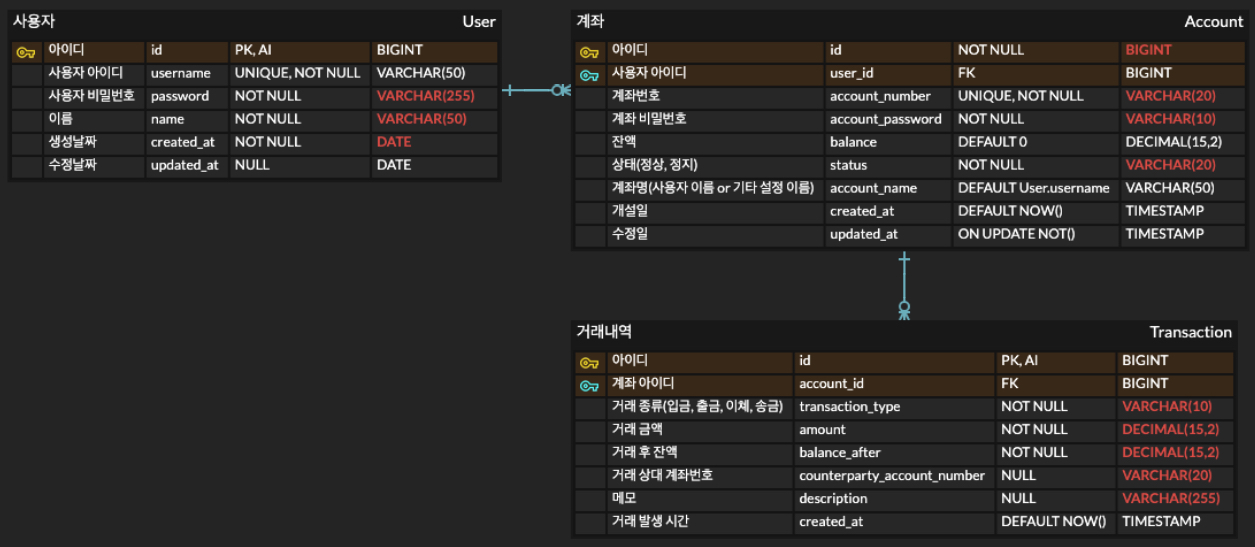
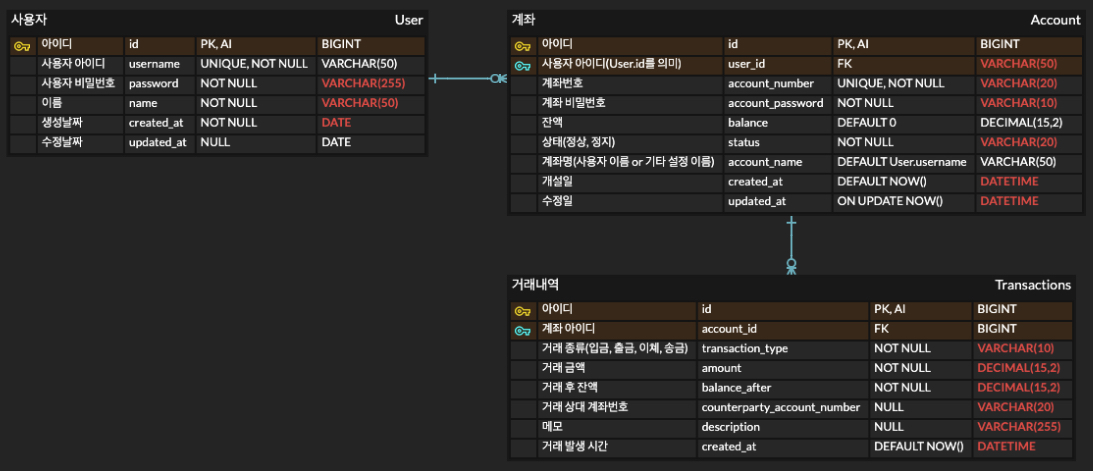
사용자 아이디 명명법 변경 및 기타 ERD 설계 수정

diff --git a/src/main/java/com/example/account_management/service/UserService.java b/src/main/java/com/example/account_management/service/UserService.java
@@ -13,8 +13,8 @@ import org.springframework.stereotype.Service;
 public class UserService {
     private final UserRepository userRepository;
 
-    public UserDto createUser(String userId, String password, String name) {
-        userRepository.findByUserId(userId)
+    public UserDto createUser(String username, String password, String name) {
+        userRepository.findByUserId(username)
                 .ifPresent(user -> {
                     throw new UserAlreadyExistException(ErrorCode.USER_ALREADY_EXISTED);
                 });
@@ -22,7 +22,7 @@ public class UserService {
         return UserDto.fromEntity(
                 userRepository.save(
                         User.builder()
-                                .userId(userId)
+                                .username(username)
                                 .password(password)
                                 .name(name)
                                 .build()

diff --git a/src/main/java/com/example/account_management/dto/CreateUser.java b/src/main/java/com/example/account_management/dto/CreateUser.java
@@ -13,7 +13,7 @@ public class CreateUser {
     @Getter
     @JsonNaming(PropertyNamingStrategies.SnakeCaseStrategy.class)
     public static class Request {
-        private String userId;
+        private String username;
         private String password;
         private String name;
     }
@@ -22,13 +22,13 @@ public class CreateUser {
     @Getter
     @JsonNaming(PropertyNamingStrategies.SnakeCaseStrategy.class)
     public static class Response {
-        private String userId;
+        private String username;
         private String name;
         private LocalDate createdAt;
 
         public static Response from(UserDto userDto){
             return Response.builder()
-                    .userId(userDto.getUserId())
+                    .username(userDto.getUsername())
                     .name(userDto.getName())
                     .createdAt(userDto.getCreatedAt())
                     .build();

diff --git a/src/main/java/com/example/account_management/dto/UserDto.java b/src/main/java/com/example/account_management/dto/UserDto.java
@@ -9,14 +9,14 @@ import java.time.LocalDate;
 @Getter
 @Builder
 public class UserDto {
-    private String userId;
+    private String username;
     private String name;
     private LocalDate createdAt;
     private LocalDate updatedAt;
 
     public static UserDto fromEntity(User user){
         return UserDto.builder()
-                .userId(user.getUserId())
+                .username(user.getUsername())
                 .name(user.getName())
                 .createdAt(user.getCreatedAt())
                 .updatedAt(user.getUpdatedAt())

diff --git a/src/main/java/com/example/account_management/controller/UserController.java b/src/main/java/com/example/account_management/controller/UserController.java
@@ -20,7 +20,7 @@ public class UserController {
             @RequestBody CreateUser.Request createUser
     ) {
         return CreateUser.Response.from(
-                userService.createUser(createUser.getUserId(),
+                userService.createUser(createUser.getUsername(),
                         createUser.getPassword(),
                         createUser.getName())
         );

diff --git a/src/main/java/com/example/account_management/domain/User.java b/src/main/java/com/example/account_management/domain/User.java
@@ -21,8 +21,8 @@ public class User {
     @GeneratedValue(strategy = GenerationType.IDENTITY)
     private Long id;
 
-    @Column(name = "user_id", unique = true, nullable = false)
-    private String userId;
+    @Column(unique = true, nullable = false)
+    private String username;
 
     @Column(nullable = false)
     private String password;

diff --git a/src/main/java/com/example/account_management/repository/UserRepository.java b/src/main/java/com/example/account_management/repository/UserRepository.java
@@ -7,5 +7,5 @@ import java.util.Optional;
 
 @Repository
 public interface UserRepository extends JpaRepository<User, Long> {
-    Optional<User> findByUserId(String userId);
+    Optional<User> findByUserId(String username);
 }
